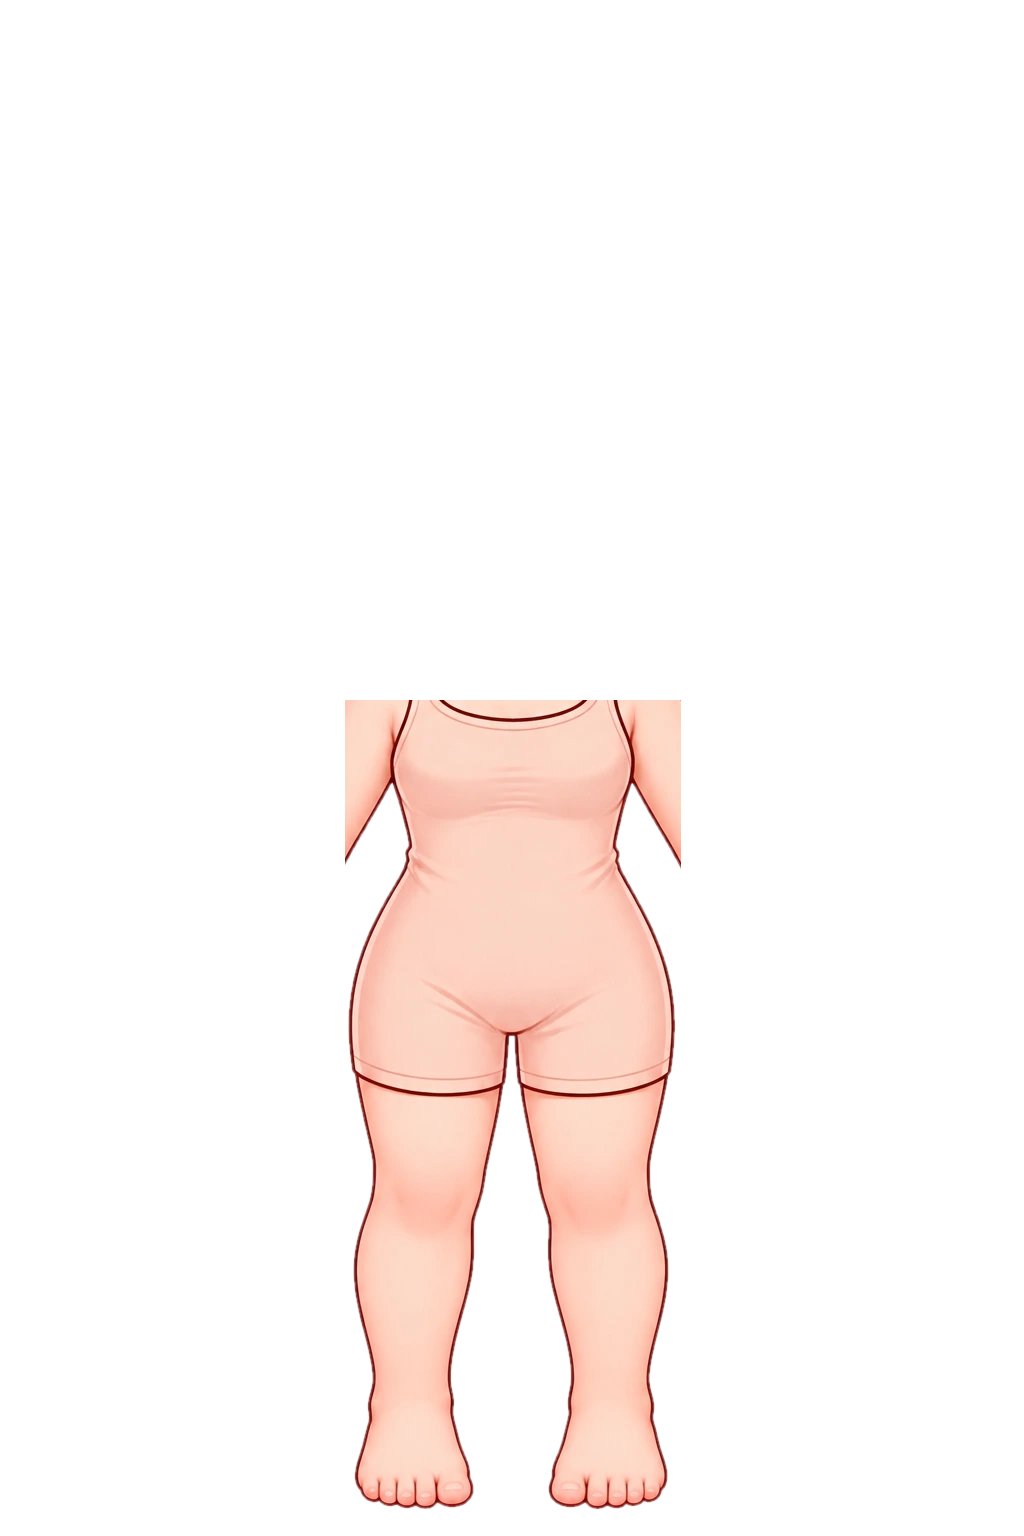
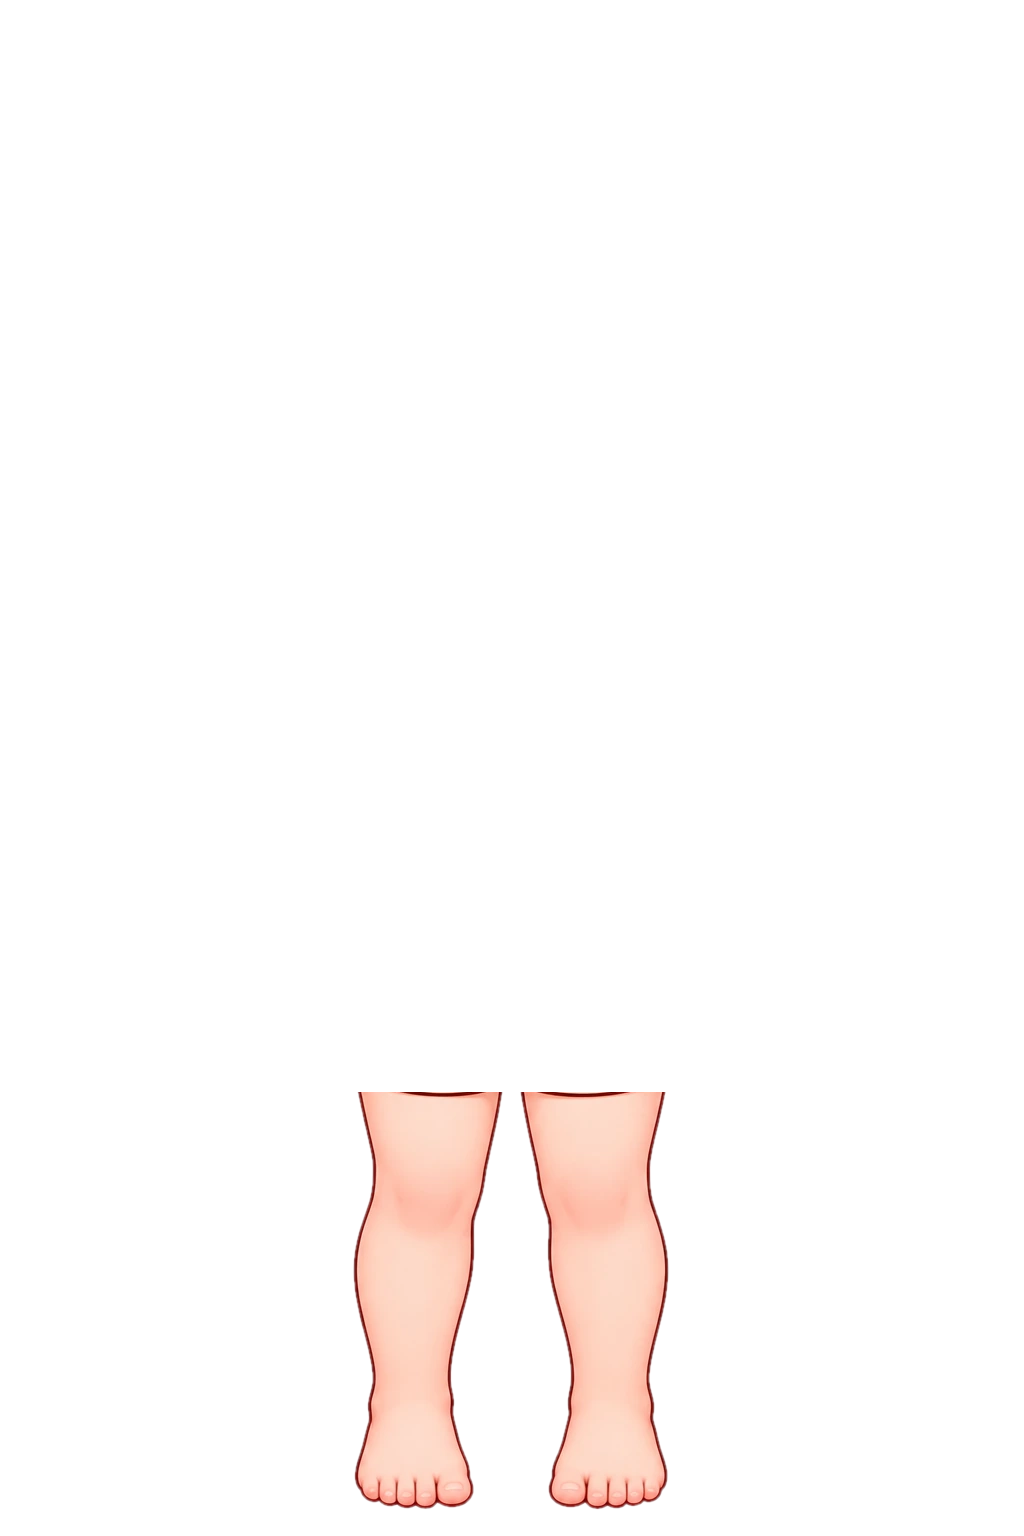
Assemble tab: remove the torso and underwear, keep only legs (shown with a bottom)
- lower.png is now legs and feet only (below the shorts hem), shown only when a bottom is worn so skirts don't float
- without a bottom nothing is drawn below the top; torso outlines and underwear no longer peek out

Claude-Session: https://claude.ai/code/session_01QsJz8svXLJhiXtuEPA1E7w

Changed region(s): [[0.3125, 0.4375, 0.6875, 0.7188]]

diff --git a/src/components/AssembleStage.tsx b/src/components/AssembleStage.tsx
@@ -5,11 +5,14 @@ import { BOTTOMS, HEADS, LOWER_IMAGE, TOPS, type Assembly } from '../lib/assembl
 import { assetUrl } from '../lib/items'
 import { CANVAS_H, CANVAS_W } from '../lib/layers'
 
-/** 조립 탭에서 보이는 이미지들(아래→위): 몸 아랫부분, 하의, 상의(팔 포함), 머리 */
+/**
+ * 조립 탭에서 보이는 이미지들(아래→위): 다리(하의를 입었을 때만), 하의, 상의(팔 포함), 머리.
+ * 몸통과 속옷은 없다 — 하의를 안 입으면 상의 아래가 비어 있다.
+ */
 export function assemblyLayers(a: Assembly): string[] {
-  const urls = [LOWER_IMAGE]
+  const urls: string[] = []
   const bottom = BOTTOMS.find((b) => b.id === a.bottom)
-  if (bottom) urls.push(assetUrl(bottom.image))
+  if (bottom) urls.push(LOWER_IMAGE, assetUrl(bottom.image))
   const top = TOPS.find((t) => t.id === a.top)
   if (top) urls.push(assetUrl(top.image))
   const head = HEADS.find((h) => h.id === a.head)

diff --git a/tools-py/make_assemble_base.py b/tools-py/make_assemble_base.py
@@ -2,8 +2,8 @@
 
   head_default.png  assets-src/assemble/source/head_original.jpg (흰 배경, 1024×636, 목 위까지) 의 배경을 지우고
                     캔버스 맨 위(0,0)에 놓은 것. 아바타 머리와 위치가 같다.
-  lower.png         정면 아바타(assets-src/base/source/standing_avatar_transparent.png)에서 허리~다리만 남긴 것.
-                    가슴 위(y<700)와 팔·손(엉덩이 위쪽의 몸통 바깥)을 지운다. 상의가 팔을 가지고 있으므로.
+  lower.png         정면 아바타(assets-src/base/source/standing_avatar_transparent.png)에서 **다리와 발만** 남긴 것.
+                    몸통·속옷 반바지(y<LEGS_Y)와 팔·손은 지운다. 상의가 팔을 가지고 있고, 하의가 몸통을 덮으므로.
 
 사용: python tools-py/make_assemble_base.py
 의존성: pip install numpy scipy opencv-python-headless pillow
@@ -32,15 +32,13 @@ head = np.zeros((H, W, 4), np.uint8)
 head[: h.shape[0]] = np.dstack([h.astype(np.uint8), m])
 Image.fromarray(head).save(f'{OUT}/head_default.png')
 
-# --- 몸 아랫부분 ---
+# --- 다리와 발 ---
+LEGS_Y = 1092  # 속옷 반바지 밑단 바로 아래 (반바지는 y≈1095 에서 끝남)
 av = np.array(Image.open('assets-src/base/source/standing_avatar_transparent.png').convert('RGBA'))
 assert av.shape[:2] == (H, W), av.shape
 Y = np.arange(H)[:, None]
 X = np.arange(W)[None, :]
-narrow = (X >= 345) & (X <= 680)  # 엉덩이 위쪽은 몸통 열만 (팔·손 제거)
-keep = np.ones((H, W), np.float32)
-keep[Y[:, 0] < 700, :] = 0
-keep = np.where((Y < 1100) & ~narrow, 0, keep)
+keep = ((Y >= LEGS_Y) & ((Y >= 1150) | ((X >= 345) & (X <= 680)))).astype(np.float32)  # 밑단 근처의 손 끝은 제외
 low = av.copy()
 low[:, :, 3] = (low[:, :, 3].astype(np.float32) * keep).astype(np.uint8)
 Image.fromarray(low).save(f'{OUT}/lower.png')

diff --git a/README.md b/README.md
@@ -38,13 +38,14 @@ npm test           # 착용 규칙 단위 테스트
 
 ### 조립 탭 (상단 `🧩 조립`) — 머리 · 상의 · 하의를 따로 고르기
 
-옷이 몸과 어긋나는 문제를 피하려고, 몸을 **머리 / 몸 아랫부분(허리~다리) / 팔·손이 붙은 상의**로 나눠 조립합니다. 상의가 자기 팔과 손을 가지고 있어서 소매가 몸에 맞춰질 필요가 없습니다.
+옷이 몸과 어긋나는 문제를 피하려고, 몸통은 없애고 **머리 / 팔·손이 붙은 상의 / 하의(+다리)** 로 나눠 조립합니다. 상의가 자기 팔과 손을 가지고 있어서 소매가 몸에 맞춰질 필요가 없습니다.
 - 탭: 머리 · 상의 · 하의. 같은 상의·하의를 다시 누르면 벗기고, 머리는 교체만 됩니다. 랜덤, 전체 벗기기, 배경, 이미지 저장(스티커 테두리 포함)을 지원하고 선택은 자동 저장됩니다.
-- 레이어(아래→위): 몸 아랫부분 < 하의 < 상의(팔 포함) < 머리
+- 레이어(아래→위): 다리·발(하의를 입었을 때만) < 하의 < 상의(팔 포함) < 머리. 몸통과 속옷은 없습니다.
 - 상의는 `assets-src/assemble/tops/top_*.png`(팔 포함 원본 1928×816). 빌드가 0.545배로 줄여 아바타 캔버스 (x −10, y 624)에 놓습니다. 이름·색은 `scripts/assemble-items.json`.
-- 머리는 `assets-src/assemble/base/head_*.png`(1024×1536 캔버스), 몸 아랫부분은 `lower.png`. 둘 다 `python tools-py/make_assemble_base.py` 로 만듭니다.
+- 머리는 `assets-src/assemble/base/head_*.png`(1024×1536 캔버스), 다리·발은 `lower.png`. 둘 다 `python tools-py/make_assemble_base.py` 로 만듭니다.
 - 하의는 코디 탭의 하의 중 **현재 아바타 기준으로 새로 그린 것(`native`)** 만 쓰므로 지금은 6벌입니다.
 - 새 상의를 추가하려면 팔·손이 붙은 같은 크기·비율의 PNG 를 `assets-src/assemble/tops/` 에 넣고 `npm run assets`.
+- 하의를 안 입으면 상의 아래가 비어 있고(다리도 숨김), 상의를 안 입으면 머리만 남습니다.
 - 한계: 이 탭에는 신발·아우터·원피스·액세서리·코디 저장이 없습니다.
 
 ### 내 방 꾸미기 (상단 `🏠 내 방` 탭)
